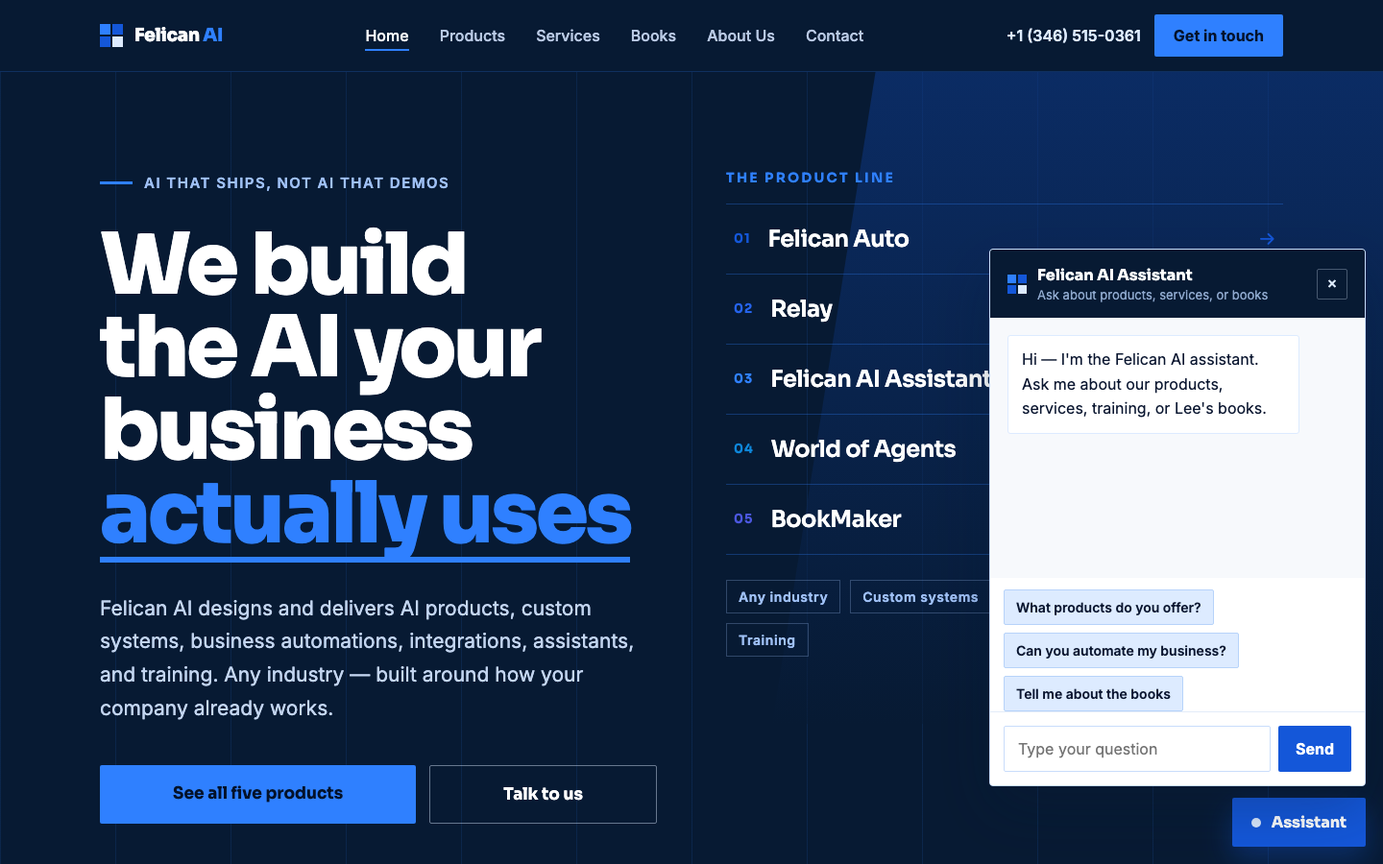
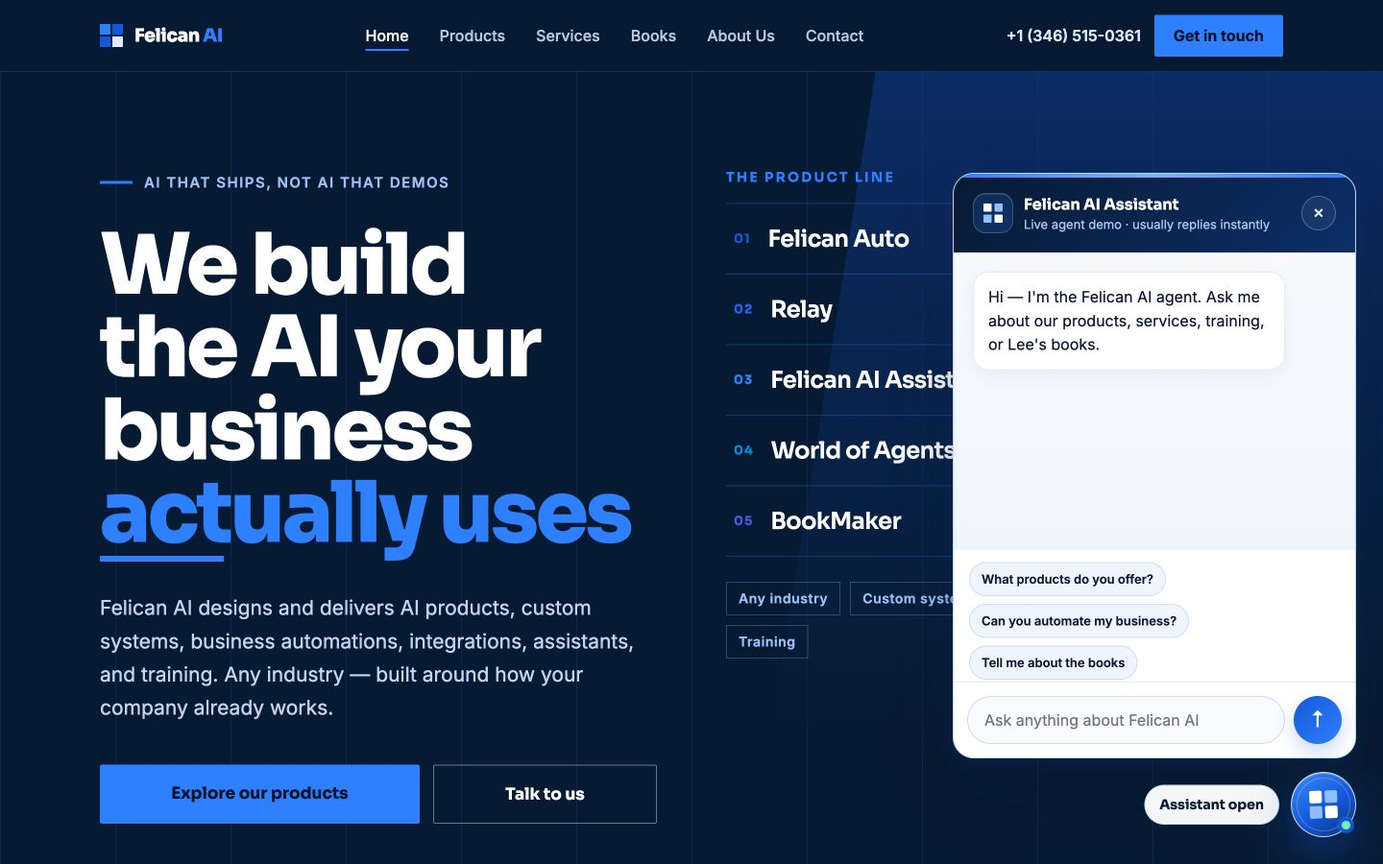
feat: redesign embeddable AI assistant

diff --git a/public/ChatAssistant.dc.html b/public/ChatAssistant.dc.html
@@ -12,30 +12,66 @@
 <style>
 @keyframes fa-in { from { opacity:0; transform:translateY(14px) } to { opacity:1; transform:none } }
 @keyframes fa-dot { 0%,80%,100% { opacity:.25 } 40% { opacity:1 } }
+@keyframes fa-pulse { 0%,100% { box-shadow:0 0 0 0 rgba(47,128,255,.42) } 50% { box-shadow:0 0 0 7px rgba(47,128,255,0) } }
+.fa-shell { position:fixed;right:28px;bottom:28px;z-index:1000;font-family:Inter,system-ui,sans-serif;display:flex;flex-direction:column;align-items:flex-end;gap:14px;max-width:calc(100vw - 56px);pointer-events:none }
+.fa-shell > * { pointer-events:auto }
+.fa-panel { position:relative;width:min(420px,calc(100vw - 56px));height:min(610px,calc(100vh - 124px));background:#FFFFFF;border:1px solid rgba(183,211,250,.95);border-radius:22px;box-shadow:0 28px 80px rgba(4,18,42,.28),0 4px 16px rgba(20,87,217,.12);display:flex;flex-direction:column;overflow:hidden;animation:fa-in .24s cubic-bezier(.2,.8,.2,1) both;transform-origin:bottom right }
+.fa-panel::before { content:'';position:absolute;z-index:2;left:0;right:0;top:0;height:4px;background:linear-gradient(90deg,#2F80FF,#7FB2FF,#2F80FF) }
+.fa-head { background:linear-gradient(135deg,#071A33 0%,#0C2F68 100%);padding:20px;display:flex;align-items:center;justify-content:space-between;gap:12px;flex-shrink:0 }
+.fa-head-mark { width:42px;height:42px;padding:10px;border-radius:13px;background:rgba(47,128,255,.16);border:1px solid rgba(159,192,245,.26);box-shadow:inset 0 1px 0 rgba(255,255,255,.12) }
+.fa-close { background:rgba(255,255,255,.06);border:1px solid rgba(221,235,255,.28);color:#DDEBFF;width:36px;height:36px;border-radius:50%;font-size:20px;line-height:1;cursor:pointer;flex-shrink:0;transition:background .18s ease,transform .18s ease }
+.fa-close:hover { background:rgba(47,128,255,.22);color:#FFFFFF;transform:rotate(4deg) }
+.fa-messages { flex:1;overflow-y:auto;padding:20px;background:linear-gradient(180deg,#F7F9FC 0%,#EFF5FF 100%);display:flex;flex-direction:column;gap:14px }
+.fa-message { max-width:86%;padding:13px 15px;border-radius:16px;font-size:16px;line-height:1.55;white-space:pre-wrap;box-shadow:0 5px 16px rgba(7,26,51,.05) }
+.fa-chips { padding:13px 16px 2px;background:#FFFFFF;display:flex;flex-wrap:wrap;gap:8px;flex-shrink:0 }
+.fa-chip { background:#EFF5FF;border:1px solid #C9DDFB;color:#0A1630;font-family:Inter,sans-serif;font-size:13px;font-weight:600;padding:9px 12px;border-radius:999px;cursor:pointer;transition:background .18s ease,color .18s ease,transform .18s ease }
+.fa-chip:hover { background:#1457D9;color:#FFFFFF;border-color:#1457D9;transform:translateY(-1px) }
+.fa-composer { padding:14px;background:#FFFFFF;border-top:1px solid #E3ECF9;display:flex;gap:9px;flex-shrink:0 }
+.fa-input { flex:1;min-width:0;border:1px solid #C9DDFB;background:#F9FBFF;color:#0A1630;font-family:Inter,sans-serif;font-size:16px;padding:13px 17px;border-radius:999px }
+.fa-input:focus { outline:2px solid #1457D9;outline-offset:1px;border-color:#1457D9;background:#FFFFFF }
+.fa-send { width:50px;height:50px;display:grid;place-items:center;flex:0 0 50px;background:linear-gradient(135deg,#1457D9,#2F80FF);border:0;color:#FFFFFF;font-family:Sora,sans-serif;font-size:22px;font-weight:700;padding:0;border-radius:50%;cursor:pointer;box-shadow:0 8px 20px rgba(20,87,217,.24);transition:transform .18s ease,box-shadow .18s ease }
+.fa-send:hover { transform:translateY(-2px);box-shadow:0 11px 25px rgba(20,87,217,.34) }
+.fa-launch-row { display:flex;align-items:center;gap:12px }
+.fa-launch-label { padding:11px 15px;border:1px solid rgba(201,221,251,.9);border-radius:999px;background:rgba(255,255,255,.96);color:#071A33;font-family:Sora,Inter,sans-serif;font-size:14px;font-weight:700;box-shadow:0 10px 30px rgba(7,26,51,.16);backdrop-filter:blur(10px) }
+.fa-launcher { position:relative;width:68px;height:68px;display:grid;place-items:center;flex:0 0 68px;padding:0;border:1px solid rgba(255,255,255,.72);border-radius:50%;background:linear-gradient(145deg,#3A8BFF 0%,#1457D9 55%,#0B3479 100%);color:#FFFFFF;cursor:pointer;box-shadow:0 18px 44px rgba(20,87,217,.4),inset 0 1px 0 rgba(255,255,255,.38);transition:transform .2s cubic-bezier(.2,.8,.2,1),box-shadow .2s ease }
+.fa-launcher:hover { transform:translateY(-4px) scale(1.035);box-shadow:0 23px 52px rgba(20,87,217,.46),inset 0 1px 0 rgba(255,255,255,.42) }
+.fa-launcher::before { content:'';position:absolute;inset:5px;border:1px solid rgba(255,255,255,.22);border-radius:50% }
+.fa-launch-grid { position:relative;z-index:1;width:29px;height:29px;display:grid;grid-template-columns:1fr 1fr;grid-template-rows:1fr 1fr;gap:3px;transform:rotate(-2deg) }
+.fa-launch-grid span { border-radius:2px;background:#FFFFFF }
+.fa-launch-grid span:nth-child(2),.fa-launch-grid span:nth-child(3) { background:#8FBEFF }
+.fa-launch-status { position:absolute;z-index:2;right:2px;bottom:4px;width:15px;height:15px;border:3px solid #1457D9;border-radius:50%;background:#76F0B3;animation:fa-pulse 2.2s ease-in-out infinite }
+@media (max-width:640px) {
+  .fa-shell { right:14px;bottom:14px;max-width:calc(100vw - 28px) }
+  .fa-panel { width:calc(100vw - 28px);height:min(600px,calc(100vh - 104px));border-radius:19px }
+  .fa-launch-label { display:none }
+  .fa-launcher { width:60px;height:60px;flex-basis:60px }
+  .fa-head { padding:18px }
+  .fa-messages { padding:16px }
+}
 @media (prefers-reduced-motion: reduce) { *, *::before, *::after { animation-duration:.001ms !important; transition-duration:.001ms !important } }
 </style>
 </helmet>
-<div style="position:fixed;right:18px;bottom:18px;z-index:1000;font-family:Inter,system-ui,sans-serif;display:flex;flex-direction:column;align-items:flex-end;gap:12px;max-width:calc(100vw - 36px)">
+<div class="fa-shell">
 
   <sc-if value="{{ open }}" hint-placeholder-val="{{ false }}">
-    <section aria-label="Felican AI assistant" style="width:min(392px,calc(100vw - 36px));height:min(560px,calc(100vh - 130px));background:#FFFFFF;border:1px solid #C9DDFB;border-radius:4px;box-shadow:0 24px 60px rgba(7,26,51,0.28);display:flex;flex-direction:column;overflow:hidden;animation:fa-in .22s ease-out both">
-      <div style="background:#071A33;padding:16px 18px;display:flex;align-items:center;justify-content:space-between;gap:12px;flex-shrink:0">
+    <section class="fa-panel" aria-label="Felican AI assistant">
+      <div class="fa-head">
         <div style="display:flex;align-items:center;gap:11px">
-          <span aria-hidden="true" style="display:grid;grid-template-columns:1fr 1fr;grid-template-rows:1fr 1fr;gap:2px;width:20px;height:20px">
-            <span style="background:#2F80FF"></span><span style="background:#1457D9"></span>
-            <span style="background:#1457D9"></span><span style="background:#DDEBFF"></span>
+          <span class="fa-head-mark" aria-hidden="true" style="display:grid;grid-template-columns:1fr 1fr;grid-template-rows:1fr 1fr;gap:3px">
+            <span style="background:#FFFFFF;border-radius:1px"></span><span style="background:#8FBEFF;border-radius:1px"></span>
+            <span style="background:#8FBEFF;border-radius:1px"></span><span style="background:#FFFFFF;border-radius:1px"></span>
           </span>
           <div>
             <p style="margin:0;font-family:Sora,sans-serif;font-size:16px;font-weight:700;color:#FFFFFF">Felican AI Assistant</p>
-            <p style="margin:2px 0 0;font-size:13px;color:#8FA9CE">Ask about products, services, or books</p>
+            <p style="margin:3px 0 0;font-size:13px;color:#AFC8EC">Live agent demo · usually replies instantly</p>
           </div>
         </div>
-        <button type="button" onClick="{{ close }}" aria-label="Close assistant" style="background:transparent;border:1px solid rgba(221,235,255,0.3);color:#DDEBFF;width:32px;height:32px;border-radius:2px;font-size:18px;line-height:1;cursor:pointer;flex-shrink:0" style-hover="background:rgba(47,128,255,0.18);color:#FFFFFF" style-focus="outline:2px solid #2F80FF;outline-offset:2px">&#215;</button>
+        <button class="fa-close" type="button" onClick="{{ close }}" aria-label="Close assistant" style-focus="outline:2px solid #8FBEFF;outline-offset:2px">&#215;</button>
       </div>
 
-      <div ref="{{ scrollRef }}" role="log" aria-live="polite" style="flex:1;overflow-y:auto;padding:18px;background:#F7F9FC;display:flex;flex-direction:column;gap:14px">
+      <div class="fa-messages" ref="{{ scrollRef }}" role="log" aria-live="polite">
         <sc-for list="{{ messages }}" as="m" hint-placeholder-count="1">
-          <div style="align-self:{{ m.align }};max-width:86%;background:{{ m.bg }};color:{{ m.fg }};border:1px solid {{ m.border }};padding:12px 14px;border-radius:3px;font-size:16px;line-height:1.6;white-space:pre-wrap">{{ m.text }}</div>
+          <div class="fa-message" style="align-self:{{ m.align }};background:{{ m.bg }};color:{{ m.fg }};border:1px solid {{ m.border }}">{{ m.text }}</div>
         </sc-for>
         <sc-if value="{{ busy }}" hint-placeholder-val="{{ false }}">
           <div aria-label="Assistant is typing" style="align-self:flex-start;display:flex;gap:5px;padding:14px">
@@ -47,33 +83,36 @@
       </div>
 
       <sc-if value="{{ showChips }}" hint-placeholder-val="{{ true }}">
-        <div style="padding:12px 14px 0;background:#FFFFFF;display:flex;flex-wrap:wrap;gap:8px;flex-shrink:0">
+        <div class="fa-chips">
           <sc-for list="{{ chips }}" as="c" hint-placeholder-count="3">
-            <button type="button" onClick="{{ c.go }}" style="background:#DDEBFF;border:1px solid #B7D3FA;color:#0A1630;font-family:Inter,sans-serif;font-size:14px;font-weight:600;padding:9px 12px;border-radius:2px;cursor:pointer" style-hover="background:#2F80FF;color:#FFFFFF;border-color:#2F80FF" style-focus="outline:2px solid #1457D9;outline-offset:2px">{{ c.label }}</button>
+            <button class="fa-chip" type="button" onClick="{{ c.go }}" style-focus="outline:2px solid #1457D9;outline-offset:2px">{{ c.label }}</button>
           </sc-for>
         </div>
       </sc-if>
 
-      <form onSubmit="{{ submit }}" style="padding:14px;background:#FFFFFF;border-top:1px solid #E3ECF9;display:flex;gap:8px;flex-shrink:0">
+      <form class="fa-composer" onSubmit="{{ submit }}">
         <label for="fa-input" style="position:absolute;width:1px;height:1px;overflow:hidden;clip:rect(0 0 0 0)">Your message</label>
         <input type="text" name="website" value="{{ website }}" onChange="{{ onWebsite }}" tabindex="-1" autoComplete="off" aria-hidden="true" style="position:absolute;left:-9999px;opacity:0;height:0;overflow:hidden">
-        <input id="fa-input" type="text" value="{{ draft }}" onChange="{{ onDraft }}" placeholder="Type your question" maxlength="800" autoComplete="off" style="flex:1;min-width:0;border:1px solid #C9DDFB;background:#FFFFFF;color:#0A1630;font-family:Inter,sans-serif;font-size:16px;padding:13px 14px;border-radius:2px" style-focus="outline:2px solid #1457D9;outline-offset:1px;border-color:#1457D9">
-        <button type="submit" aria-label="Send message" style="background:#1457D9;border:none;color:#FFFFFF;font-family:Inter,sans-serif;font-size:16px;font-weight:700;padding:13px 18px;border-radius:2px;cursor:pointer" style-hover="background:#2F80FF" style-focus="outline:2px solid #071A33;outline-offset:2px">{{ sendLabel }}</button>
+        <input class="fa-input" id="fa-input" type="text" value="{{ draft }}" onChange="{{ onDraft }}" placeholder="Ask anything about Felican AI" maxlength="800" autoComplete="off">
+        <button class="fa-send" type="submit" aria-label="Send message" title="{{ sendLabel }}" style-focus="outline:2px solid #071A33;outline-offset:2px">&#8593;</button>
       </form>
     </section>
   </sc-if>
 
-  <button type="button" onClick="{{ toggle }}" aria-expanded="{{ openStr }}" aria-label="Open the Felican AI assistant" style="display:inline-flex;align-items:center;gap:11px;background:#1457D9;color:#FFFFFF;border:none;font-family:Sora,Inter,sans-serif;font-size:16px;font-weight:700;padding:15px 20px;border-radius:2px;cursor:pointer;box-shadow:0 12px 30px rgba(20,87,217,0.34);transition:background .18s ease,transform .18s ease" style-hover="background:#2F80FF;transform:translateY(-3px)" style-focus="outline:3px solid #DDEBFF;outline-offset:3px">
-    <span aria-hidden="true" style="width:10px;height:10px;background:#DDEBFF;border-radius:50%;flex-shrink:0"></span>
-    {{ btnLabel }}
-  </button>
+  <div class="fa-launch-row">
+    <span class="fa-launch-label" aria-hidden="true">{{ btnLabel }}</span>
+    <button class="fa-launcher" data-assistant-launcher="1" type="button" onClick="{{ toggle }}" aria-expanded="{{ openStr }}" aria-label="{{ launcherLabel }}" style-focus="outline:3px solid #DDEBFF;outline-offset:3px">
+      <span class="fa-launch-grid" aria-hidden="true"><span></span><span></span><span></span><span></span></span>
+      <span class="fa-launch-status" aria-hidden="true"></span>
+    </button>
+  </div>
 </div>
 
 </x-dc>
 <script type="text/x-dc" data-dc-script data-props="{&quot;$preview&quot;:{&quot;width&quot;:460,&quot;height&quot;:640}}">
-const SYS = `You are the Felican AI website assistant. Felican AI builds useful AI products, custom systems, business automations, integrations, assistants, solutions, and training for businesses in any industry. It is led by Lee Felican Jr., a software engineer of 30+ years named a Top 10 AI Director of 2026 by CIOReview.
+const SYS = `You are the Felican AI assistant running on the Felican AI website. Felican AI builds useful AI products, custom systems, business automations, integrations, assistants, solutions, and training for businesses in any industry. It is led by Lee Felican Jr., a software engineer of 30+ years named a Top 10 AI Director of 2026 by CIOReview.
 
-The current product lineup includes: Felican Auto (connected AI products, automations and workflows for automotive businesses); Relay (AI field-service software for HVAC, plumbing, and electrical companies with scheduling, AP invoice OCR, collections, quotes, crew management, and an AI operations assistant); Felican AI Assistant (a company-trained website assistant that answers questions, recommends services and captures inquiries); World of Agents (discover and work with specialized AI agents for focused business tasks); BookMaker (an AI workspace for planning, writing, organizing and preparing books). The portfolio is growing, so describe it as the current lineup without stating a fixed product count.
+The current product lineup includes: Felican Auto (connected AI products, automations and workflows for automotive businesses); Relay (AI field-service software for HVAC, plumbing, and electrical companies with scheduling, AP invoice OCR, collections, quotes, crew management, and an AI operations assistant); Felican AI Assistant (a company-trained AI agent businesses can embed inside a website or app to answer questions, recommend services, capture inquiries, connect workflows, and hand off to people); World of Agents (discover and work with specialized AI agents for focused business tasks); BookMaker (an AI workspace for planning, writing, organizing and preparing books). The portfolio is growing, so describe it as the current lineup without stating a fixed product count.
 
 Services: AI agents and bots, business automation, custom integrations, private AI systems, AI implementation and consulting, business solutions, AI training and workshops. Felican AI works with businesses in any industry and designs solutions around how each company actually operates.
 
@@ -86,7 +125,7 @@ Answer in 2-4 short sentences, plainly and helpfully. Never invent customers, st
 class Component extends DCLogic {
   state = {
     open: new URLSearchParams(window.location.search).has('assistant'), busy: false, draft: '', website: '',
-    messages: [{ role: 'assistant', text: "Hi — I'm the Felican AI assistant. Ask me about our products, services, training, or Lee's books." }]
+    messages: [{ role: 'assistant', text: "Hi — I'm the Felican AI agent. Ask me about our products, services, training, or Lee's books." }]
   };
   scrollRef = React.createRef();
   componentDidUpdate() {
@@ -119,7 +158,8 @@ class Component extends DCLogic {
     return {
       open: this.state.open,
       openStr: this.state.open ? 'true' : 'false',
-      btnLabel: this.state.open ? 'Assistant' : 'Ask Felican AI',
+      btnLabel: this.state.open ? 'Assistant open' : 'Ask Felican AI',
+      launcherLabel: this.state.open ? 'Close the Felican AI assistant' : 'Open the Felican AI assistant',
       busy: this.state.busy,
       sendLabel: this.state.busy ? 'Thinking' : 'Send',
       draft: this.state.draft,

diff --git a/src/site.jsx b/src/site.jsx
@@ -16,7 +16,7 @@ const assetPath = fileName => `${import.meta.env.BASE_URL}${fileName}`;
 const products = [
   { name: 'Felican Auto', path: '/products/felican-auto', category: 'Automotive', status: 'Available', description: 'Connected AI tools and workflows built for automotive businesses.', color: '#173f6b', features: ['Customer intake', 'Connected workflows', 'Follow-up and reporting'] },
   { name: 'Relay', path: '/products/relay', category: 'Field service', status: 'Available', description: 'AI field-service software for HVAC, plumbing, and electrical companies.', color: '#2563eb', features: ['Maintenance scheduling', 'AP invoice automation', 'Collections, quotes, and crews'] },
-  { name: 'Felican AI Assistant', path: '/products/felican-ai-assistant', category: 'Customer experience', status: 'Featured', description: 'A company-trained website assistant that answers questions, recommends services, and captures inquiries.', color: '#7357ff', features: ['Approved company knowledge', 'Lead qualification', 'Human handoff'] },
+  { name: 'Felican AI Assistant', path: '/products/felican-ai-assistant', category: 'Embeddable agent', status: 'Featured', description: 'A company-trained AI agent businesses can embed inside a website or app to answer questions, connect workflows, and hand off to people.', color: '#7357ff', features: ['Website and app embedding', 'Approved company knowledge', 'Workflow actions and human handoff'] },
   { name: 'World of Agents', path: '/products/world-of-agents', category: 'AI agents', status: 'Available', description: 'A place to discover and work with specialized AI agents built for focused tasks.', color: '#168b70', features: ['Specialized agents', 'Task-based discovery', 'Business workflows'] },
   { name: 'BookMaker', path: '/products/bookmaker', category: 'Publishing', status: 'Available', description: 'An AI workspace for planning, writing, organizing, and preparing books.', color: '#9b4f2f', features: ['Book planning', 'Draft organization', 'Publishing workflow'] },
 ];
@@ -64,9 +64,9 @@ const books = [
 const BOOKS_URL = 'https://felican.ai/Lee-Felican-jr/books/resources/';
 
 const faqs = [
-  ['How can I contact Felican AI?', `Call us at ${PHONE} or email privateaiglobal@gmail.com. The website assistant is also available for quick product and service questions.`],
+  ['How can I contact Felican AI?', `Call us at ${PHONE} or email privateaiglobal@gmail.com. The Felican AI agent on this site is also available for quick product and service questions.`],
   ['Can Felican connect to our current software?', 'Yes. We design integrations around the systems your team already uses, including CRM, email, calendars, phone systems, documents, and databases.'],
-  ['Is the website assistant also a product?', 'Yes. The assistant on this site represents a product Felican AI can tailor to another company’s knowledge, services, lead process, and escalation rules.'],
+  ['Is the assistant also a product?', 'Yes. Felican AI Assistant is an embeddable agent for websites and apps. We tailor it to a company’s knowledge, services, workflows, lead process, and escalation rules.'],
   ['Do you offer private AI and training?', 'Yes. We provide controlled AI deployments as well as practical training for teams that need to adopt AI responsibly and usefully.'],
 ];
 
@@ -141,9 +141,9 @@ function WebsiteAssistantProduct({ onChat }) {
     <div className="assistant-demo">
       <header><span className="online"/> Felican AI Assistant <small>Product demo</small></header>
       <div className="demo-chat"><p className="visitor">Can you help us automate customer follow-up?</p><p className="assistant"><Sparkles/>Yes. We can connect lead intake, your CRM, email, and human handoff into one managed workflow.</p></div>
-      <button onClick={onChat}>Try the website assistant <ArrowRight/></button>
+      <button onClick={onChat}>Try the agent <ArrowRight/></button>
     </div>
-    <div className="assistant-copy"><span className="fs-kicker">Felican AI product</span><h2>A website assistant that knows the business.</h2><p>Give visitors useful answers based on approved company knowledge. Recommend the right service, collect context, and move qualified inquiries to a person.</p><ul><li><Check/>Custom company knowledge</li><li><Check/>Lead qualification and capture</li><li><Check/>Email and CRM workflows</li><li><Check/>Human escalation</li></ul><button className="fs-primary" onClick={onChat}>Open Felican AI <ArrowRight/></button></div>
+    <div className="assistant-copy"><span className="fs-kicker">Felican AI product</span><h2>An AI agent that fits inside your website or app.</h2><p>Give customers useful answers based on approved company knowledge, connect actions to your workflows, collect context, and move the right conversations to a person.</p><ul><li><Check/>Website and app embedding</li><li><Check/>Custom company knowledge</li><li><Check/>Email, CRM, and workflow actions</li><li><Check/>Human escalation</li></ul><button className="fs-primary" onClick={onChat}>Open Felican AI <ArrowRight/></button></div>
   </section>;
 }
 
@@ -212,7 +212,7 @@ function ContactPage({ onChat }) {
 }
 
 function ChatPanel({ close }) {
-  const [messages,setMessages] = useState([{role:'bot',text:'Hi. I’m the Felican AI website assistant. Ask me about our products, services, training, or company.'}]);
+  const [messages,setMessages] = useState([{role:'bot',text:'Hi. I’m the Felican AI agent. Ask me about our products, services, training, or company.'}]);
   const [input,setInput] = useState('');
   const respond = text => {
     const q = text.toLowerCase();
@@ -222,7 +222,7 @@ function ChatPanel({ close }) {
     return 'Felican AI builds assistants, automations, integrations, private AI systems, and business software. Tell me what you want to improve and I’ll point you in the right direction.';
   };
   const send = text => { const clean=text.trim(); if(!clean)return; setMessages(m=>[...m,{role:'user',text:clean},{role:'bot',text:respond(clean)}]);setInput(''); };
-  return <aside className="fs-chat" role="dialog" aria-label="Felican AI website assistant"><header><div><span className="online"/><b>Felican AI Assistant</b><small>Website product demo</small></div><button onClick={close}><X/></button></header><div className="fs-chat-messages">{messages.map((m,i)=><p className={m.role} key={i}>{m.text}</p>)}</div><div className="quick-asks">{['What products do you have?','Tell me about training','How do I contact Felican AI?'].map(q=><button key={q} onClick={()=>send(q)}>{q}</button>)}</div><form onSubmit={e=>{e.preventDefault();send(input)}}><input aria-label="Message Felican AI" value={input} onChange={e=>setInput(e.target.value)} placeholder="Ask a question"/><button><Send/></button></form></aside>;
+  return <aside className="fs-chat" role="dialog" aria-label="Felican AI assistant"><header><div><span className="online"/><b>Felican AI Assistant</b><small>Embeddable agent demo</small></div><button onClick={close}><X/></button></header><div className="fs-chat-messages">{messages.map((m,i)=><p className={m.role} key={i}>{m.text}</p>)}</div><div className="quick-asks">{['What products do you have?','Tell me about training','How do I contact Felican AI?'].map(q=><button key={q} onClick={()=>send(q)}>{q}</button>)}</div><form onSubmit={e=>{e.preventDefault();send(input)}}><input aria-label="Message Felican AI" value={input} onChange={e=>setInput(e.target.value)} placeholder="Ask a question"/><button><Send/></button></form></aside>;
 }
 
 export function FelicanSite() {

diff --git a/src/main.jsx b/src/main.jsx
@@ -167,7 +167,7 @@ function Workbench({ onCall, onChat }) {
   const filtered = useMemo(() => filter === 'All' ? products : products.filter(p=>p.category===filter), [filter]);
   return <div className="concept workbench" id="top"><Nav onCall={onCall} onChat={onChat}/><main>
     <section className="w-hero"><div><span className="mono-label">FELICAN AI</span><h1>AI systems for real business work.</h1><p>We build and maintain software for service companies, real estate teams, and growing businesses.</p><div><button className="button" onClick={onChat}>Ask about our work <ArrowRight/></button><button className="button button-outline" onClick={onCall}><Phone/> Call {PHONE_DISPLAY}</button></div><small>Products, implementation, and team training</small></div><PhoneWidget onCall={onCall}/></section>
-    <section className="demo-shelf"><article onClick={onCall}><div className="tile-top"><Phone/><span className="mono-label">COMPANY CONTACT</span></div><h2>Call Felican AI</h2><p>Our AI answers the company line, helps the caller, transfers to Legend or Lee, and sends the right email follow-up.</p><button className="arrow-link">How the call is handled <ArrowRight/></button></article><article onClick={onChat}><div className="tile-top"><MessageCircle/><span className="mono-label">FELICAN PRODUCT</span></div><h2>Website Assistant</h2><p>A business-trained assistant for answering visitor questions, recommending the right service, and capturing qualified inquiries.</p><button className="arrow-link">Open the assistant <ArrowRight/></button></article></section>
+    <section className="demo-shelf"><article onClick={onCall}><div className="tile-top"><Phone/><span className="mono-label">COMPANY CONTACT</span></div><h2>Call Felican AI</h2><p>Our AI answers the company line, helps the caller, transfers to Legend or Lee, and sends the right email follow-up.</p><button className="arrow-link">How the call is handled <ArrowRight/></button></article><article onClick={onChat}><div className="tile-top"><MessageCircle/><span className="mono-label">FELICAN PRODUCT</span></div><h2>Embeddable AI Agent</h2><p>A business-trained agent for websites and apps that answers questions, connects workflows, captures inquiries, and hands off to people.</p><button className="arrow-link">Open the agent <ArrowRight/></button></article></section>
     <section className="product-grid-section" id="products"><header><div><p className="mono-label">// PRODUCTS</p><h2>A portfolio you can explore.</h2></div><div className="filter-pills">{['All','AI workspace','Business ops','Creative tools','Developer tools'].map(f=><button className={filter===f?'active':''} onClick={()=>setFilter(f)} key={f}>{f}</button>)}</div></header><div className="product-grid">{filtered.map(p=><article key={p.name}><div><ProductMark product={p}/><span className="live-status"><i/> {p.status}</span></div><h3>{p.name}</h3><p>{p.description}</p><footer><span>{p.category}</span><ArrowRight/></footer></article>)}</div></section>
     <section className="service-grid-section" id="services"><header><p className="mono-label">// SERVICES</p><h2>One team from discovery through optimization.</h2></header><div>{services.map((s,i)=><article key={s.name}><span className="mono-label">0{i+1}</span><s.icon/><h3>{s.name}</h3><p>{s.description}</p><button>Scope a project <ArrowRight/></button></article>)}</div></section>
     <TrainingBooks/><AboutBand/><FAQ/>

diff --git a/tests/static-redesign.spec.js b/tests/static-redesign.spec.js
@@ -57,10 +57,19 @@ test.describe('Claude Design website export', () => {
 
     await page.goto('/', { waitUntil: 'networkidle' });
     await page.screenshot({ path: testInfo.outputPath(`homepage-${testInfo.project.name}.png`), fullPage: false });
-    const assistantButton = page.getByRole('button', { name: /felican ai assistant/i }).first();
+    const assistantButton = page.locator('[data-assistant-launcher]');
+    await expect(assistantButton).toHaveCount(1);
     await expect(assistantButton).toBeVisible();
+    const launcherBox = await assistantButton.boundingBox();
+    const viewport = page.viewportSize();
+    expect(Math.abs(launcherBox.width - launcherBox.height)).toBeLessThanOrEqual(2);
+    expect(viewport.width - launcherBox.x - launcherBox.width).toBeLessThanOrEqual(testInfo.project.name === 'mobile' ? 16 : 30);
+    expect(viewport.height - launcherBox.y - launcherBox.height).toBeLessThanOrEqual(testInfo.project.name === 'mobile' ? 16 : 30);
     await assistantButton.click();
     await expect(assistantButton).toHaveAttribute('aria-expanded', 'true');
+    const assistantPanel = page.locator('.fa-panel');
+    await expect(assistantPanel).toBeVisible();
+    await expect(assistantPanel).toHaveCSS('border-radius', testInfo.project.name === 'mobile' ? '19px' : '22px');
 
     const input = page.getByRole('textbox', { name: 'Your message' });
     await input.fill('What does Felican AI build?');
@@ -71,7 +80,7 @@ test.describe('Claude Design website export', () => {
   });
 
   test('contact page uses direct email and phone links without a form', async ({ page }) => {
-    await page.goto('/contact/', { waitUntil: 'networkidle' });
+    await page.goto('/contact/', { waitUntil: 'domcontentloaded' });
     await expect(page.getByRole('link', { name: /privateaiglobal@gmail.com/i }).first()).toHaveAttribute(
       'href',
       /mailto:privateaiglobal@gmail.com/,
@@ -84,7 +93,7 @@ test.describe('Claude Design website export', () => {
   });
 
   test('homepage overlap stays visible and service hover remains readable', async ({ page }, testInfo) => {
-    await page.goto('/', { waitUntil: 'networkidle' });
+    await page.goto('/', { waitUntil: 'domcontentloaded' });
 
     const firstPillar = page.locator('.home-pillars article').first();
     await firstPillar.locator('h3').scrollIntoViewIfNeeded();

diff --git a/public/products/index.html b/public/products/index.html
@@ -123,9 +123,9 @@ class Component extends DCLogic {
       { id: 'relay', num: '02', name: 'Relay', tag: 'FIELD SERVICE', accent: '#2563EB', url: 'https://relay.felican.dev/relay', cta: 'Open Relay', image: '/product-relay.png',
         desc: 'AI field-service software that gives HVAC, plumbing, and electrical companies a practical back office in one place.',
         points: ['Schedules maintenance and manages crews', 'Reads AP invoices and organizes review', 'Tracks collections and quotes with AI-assisted follow-up'] },
-      { id: 'ai-assistant', num: '03', name: 'Felican AI Assistant', tag: 'WEBSITE', accent: '#2F80FF', url: '/?assistant=1', cta: 'Try the Assistant', image: '/product-ai-assistant.png',
-        desc: 'A company-trained website assistant that answers questions, recommends services, and captures customer inquiries.',
-        points: ['Trained on your services, pricing rules, and policies', 'Recommends the right service instead of guessing', 'Captures the inquiry and hands it to your team with context'] },
+      { id: 'ai-assistant', num: '03', name: 'Felican AI Assistant', tag: 'EMBEDDABLE AGENT', accent: '#2F80FF', url: '/?assistant=1', cta: 'Try the Assistant', image: '/product-ai-assistant.png',
+        desc: 'A company-trained AI agent businesses can embed inside a website or app to answer questions, capture inquiries, and connect customer workflows.',
+        points: ['Fits inside websites, customer portals, and business apps', 'Trained on your services, rules, policies, and approved knowledge', 'Captures context, triggers workflows, and hands off to your team'] },
       { id: 'world-of-agents', num: '04', name: 'World of Agents', tag: 'AGENTS', accent: '#0E86D9', url: 'https://woa.felican.ai/', cta: 'Open World of Agents', image: '/product-world-of-agents.png',
         desc: 'Create a trusted AI Twin that can represent you while you decide who can reach it and what it knows.',
         points: ['Answers like you using only what you choose to teach it', 'Works across the web, conversations, circles, messages, and calls', 'Asks you when it is unsure so you stay in control'] },

diff --git a/server/app.js b/server/app.js
@@ -21,14 +21,14 @@ const MIME = new Map([
   ['.webp', 'image/webp'],
 ]);
 
-export const FELICAN_SYSTEM_PROMPT = `You are the Felican AI website assistant. Be clear, brief, friendly, and honest. Answer in 2-4 short sentences unless the visitor asks for detail.
+export const FELICAN_SYSTEM_PROMPT = `You are the Felican AI assistant running on the Felican AI website. Be clear, brief, friendly, and honest. Answer in 2-4 short sentences unless the visitor asks for detail.
 
 Felican AI builds useful AI products, custom systems, business automations, integrations, assistants, solutions, and training for businesses in any industry. It is led by Lee Felican Jr., a software engineer and enterprise architect with 30+ years of experience.
 
 Products and official links:
 - Felican Auto: an AI voice and web assistant for dealerships that answers calls and chats, uses live inventory, books test drives, and captures leads. https://auto.felican.ai/
 - Relay: AI field-service software for HVAC, plumbing, and electrical companies. It combines maintenance scheduling, AP invoice OCR and review, AR collections, quotes, crew management, reports, and an AI operations assistant. https://relay.felican.dev/relay
-- Felican AI Assistant: a company-trained website assistant like this one. It answers questions, recommends the right service, and captures inquiries. Visitors can ask about it on this site or contact Felican AI.
+- Felican AI Assistant: a company-trained AI agent businesses can embed inside a website or app. It answers questions, recommends services, captures inquiries, connects workflows, and hands off to people. The assistant on this site is a live example of the product.
 - World of Agents: a trusted AI presence and AI Twin product that helps people stay available across conversations, circles, messages, and calls while controlling access. https://woa.felican.ai/
 - BookMaker (live as Book Studio): an AI-guided workspace that turns an idea or manuscript into a publish-ready Kindle eBook, paperback, and hardcover. https://book-studio.felican.dev/
 

diff --git a/index.html b/index.html
@@ -270,7 +270,7 @@ class Component extends DCLogic {
       products: [
         { num: '01', name: 'Felican Auto', tag: 'AUTOMOTIVE', accent: ac('#1457D9'), href: '/products/#felican-auto', cta: 'Explore Felican Auto', desc: 'Connected AI products, automations, and workflows designed for automotive businesses — from inbound customer contact to service and inventory operations.' },
         { num: '02', name: 'Relay', tag: 'FIELD SERVICE', accent: ac('#2563EB'), href: '/products/#relay', cta: 'Explore Relay', desc: 'AI field-service software for HVAC, plumbing, and electrical companies — scheduling, AP invoices, collections, quotes, crews, and AI operations support in one place.' },
-        { num: '03', name: 'Felican AI Assistant', tag: 'WEBSITE', accent: ac('#2F80FF'), href: '/products/#ai-assistant', cta: 'Explore the Assistant', desc: 'A company-trained website assistant that answers questions, recommends services, and captures customer inquiries around the clock.' },
+        { num: '03', name: 'Felican AI Assistant', tag: 'EMBEDDABLE AGENT', accent: ac('#2F80FF'), href: '/products/#ai-assistant', cta: 'Explore the Assistant', desc: 'A company-trained AI agent businesses can embed inside a website or app to answer questions, capture inquiries, connect workflows, and hand off to people.' },
         { num: '04', name: 'World of Agents', tag: 'AGENTS', accent: ac('#0E86D9'), href: '/products/#world-of-agents', cta: 'Explore World of Agents', desc: 'A place to discover and work with specialized AI agents built for focused business tasks, instead of one generalist chatbot doing everything badly.' },
         { num: '05', name: 'BookMaker', tag: 'PUBLISHING', accent: ac('#4B57DE'), href: '/products/#bookmaker', cta: 'Explore BookMaker', desc: 'An AI workspace for planning, writing, organizing, and preparing books — outline to finished manuscript in one place.' }
       ],

diff --git a/src/static-redesign.test.js b/src/static-redesign.test.js
@@ -71,7 +71,18 @@ describe('Claude Design static website export', () => {
   it('connects the assistant UI to the protected server endpoint', () => {
     const assistant = read('public/ChatAssistant.dc.html');
     expect(assistant).toContain("fetch('/api/chat'");
+    expect(assistant).toContain('data-assistant-launcher="1"');
+    expect(assistant).toContain('class="fa-panel"');
+    expect(assistant).toContain('businesses can embed inside a website or app');
     expect(assistant).not.toContain('window.claude.complete');
+  });
+
+  it('positions Felican AI Assistant as an embeddable agent', () => {
+    const productCopy = `${read('index.html')}\n${read('public/products/index.html')}\n${read('server/app.js')}`;
+
+    expect(productCopy).toContain('EMBEDDABLE AGENT');
+    expect(productCopy).toContain('embed inside a website or app');
+    expect(productCopy).not.toContain('company-trained website assistant');
   });
 
   it('does not publish a fixed product count', () => {

diff --git a/src/App.test.jsx b/src/App.test.jsx
@@ -36,7 +36,7 @@ describe('Felican AI company site', () => {
     expect(document.querySelector('.variant-network')).toBeInTheDocument();
   });
 
-  it('keeps the website assistant in Contact Us and answers a product question', () => {
+  it('keeps the Felican AI agent in Contact Us and answers a product question', () => {
     window.history.replaceState({}, '', '/contact');
     render(<App />);
     fireEvent.click(screen.getByText('Ask Felican AI'));
